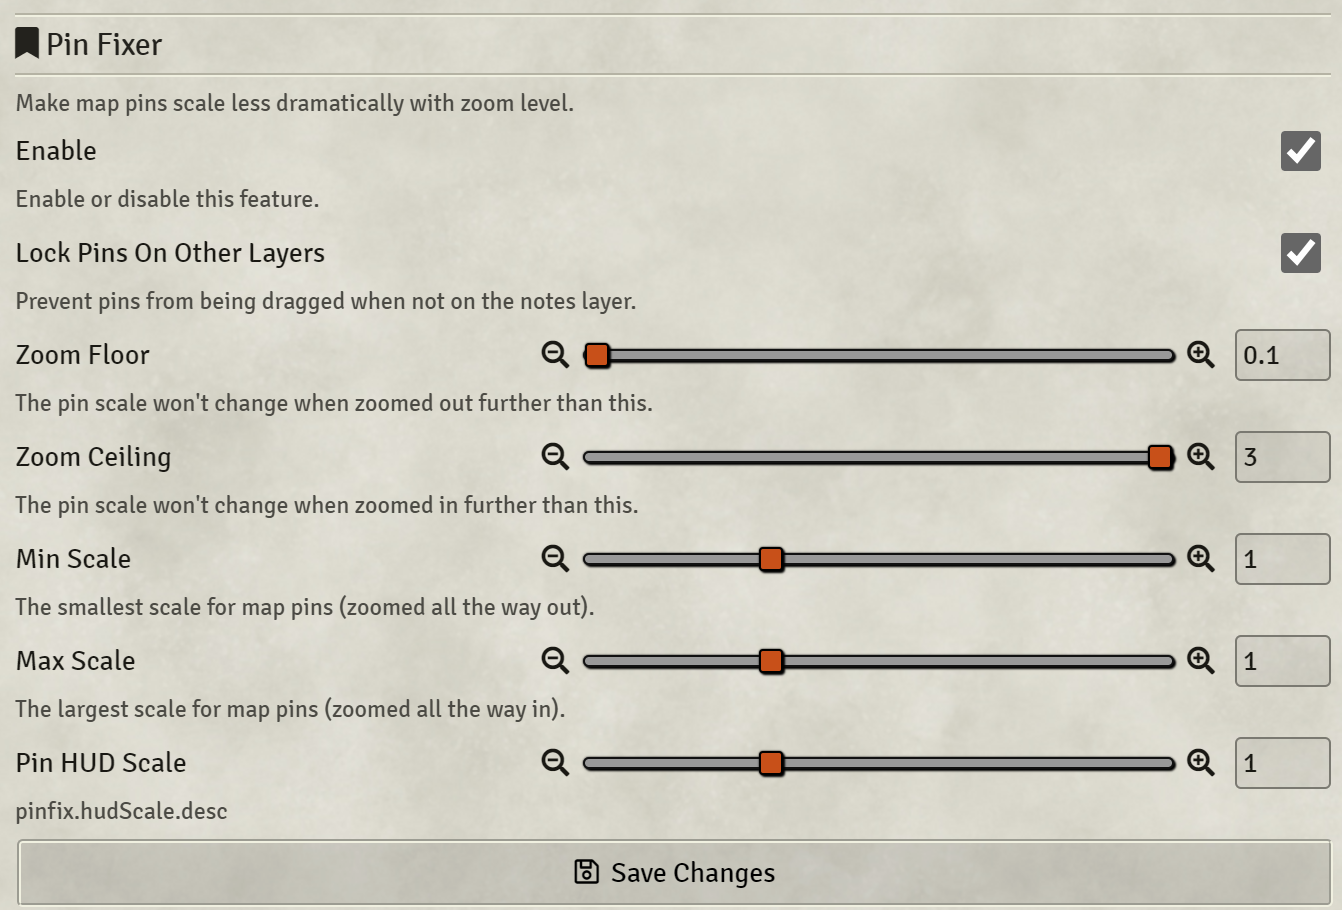
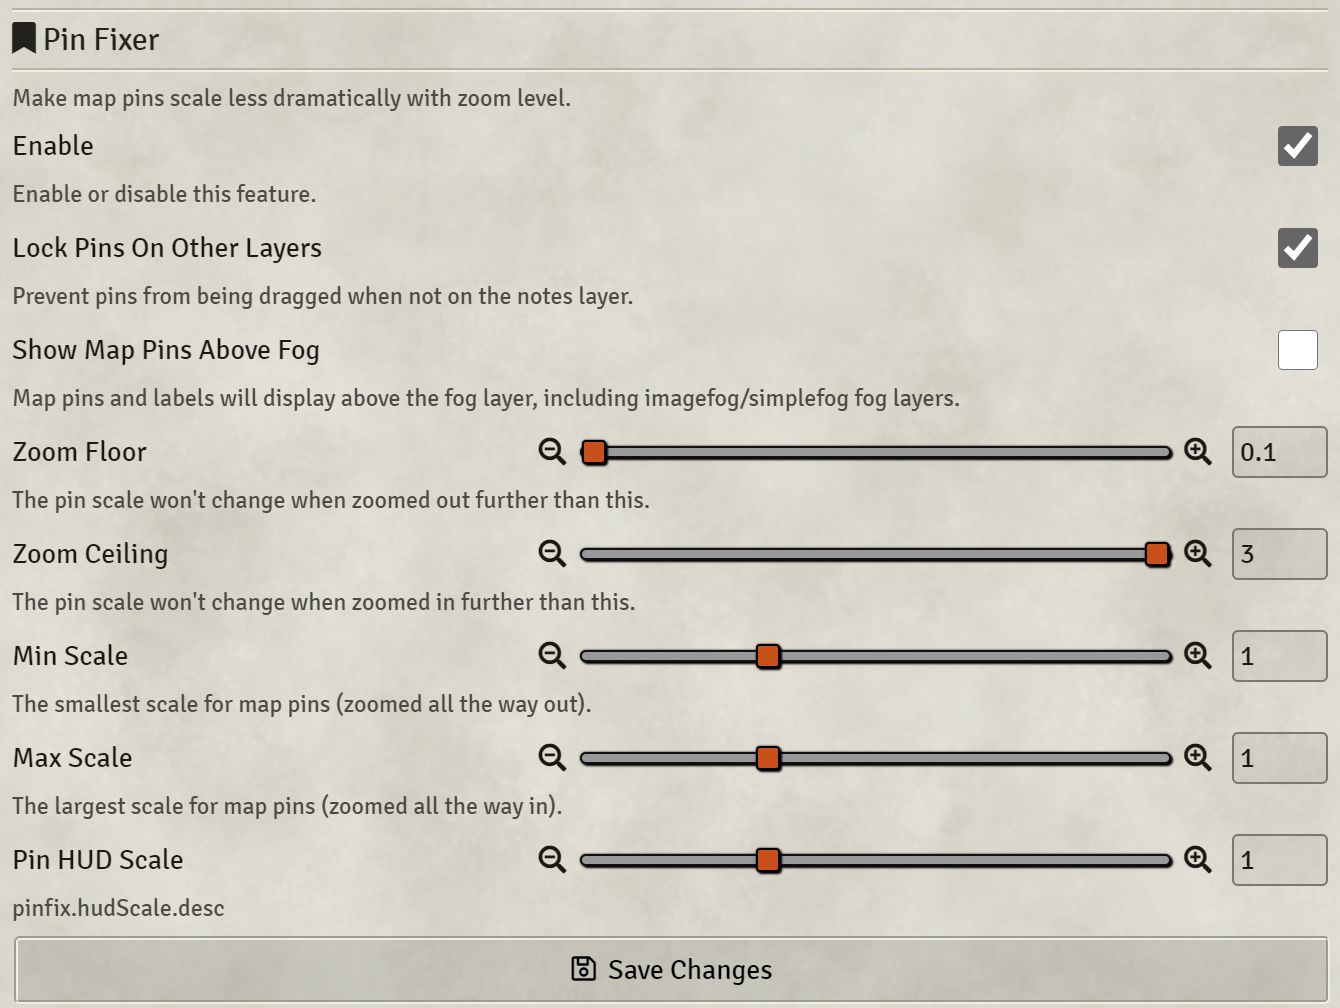
Updated readme

diff --git a/readme.md b/readme.md
@@ -12,10 +12,13 @@ With the default settings above, pins will remain the same on-screen size at all
 ### Pin Locker
 An additional setting "Lock Pins On Other Layers" prevents pins from being moved around accidentally. Whith this feature enabled, it is only possible to move pins while on the "Journal Notes" layer. 
 
-## Pin Hiding
+### Show Pins Above Fog
+Map pins and labels will display above the fog layer, including imagefog/simplefog fog layers.
+
+### Pin Hiding
 You can configure individual pins to become hidden completely at certain zoom levels. Additional fields are added to the Note Config (double right click the note). Hidden notes still appear on the Notes layer.
 
-## Always Show Pin Label
+### Always Show Pin Label
 When this option is enabled, the label of the pin will always be shown if the pin is visible, rather than only when it is hovered over.
 
 ### HUD Scaling
